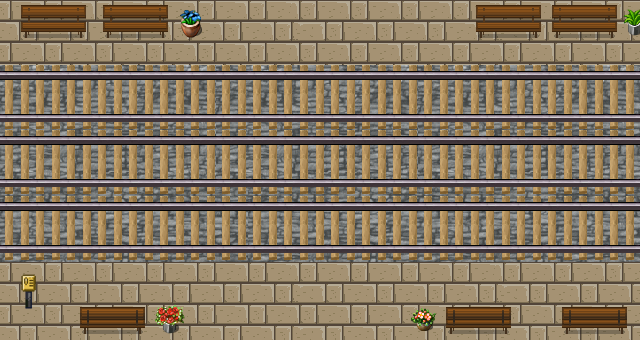
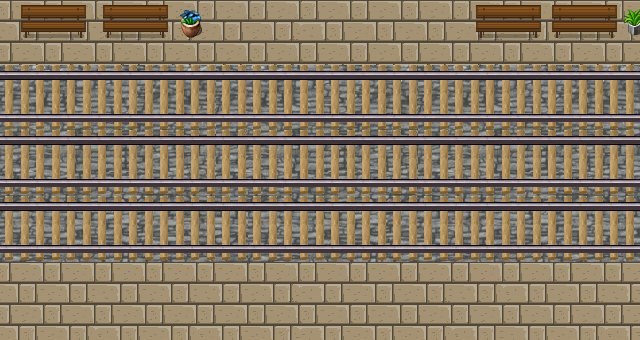
Oh yeah

Changed region(s): [[0.0, 0.7647, 0.5, 1.0], [0.5, 0.7647, 1.0, 1.0], [0.625, 0.7647, 0.6562, 0.8235]]

diff --git a/js/trainstate.js b/js/trainstate.js
@@ -57,6 +57,17 @@ var trainState = {
         train.body.setSize(370, 48);
 	},
 
+    fixSpriteFactory : function(x, y, imgId, wHitBox /* optional */, hHitBox /* optional */) {
+        var decoration = this.mainGroup.create(x, y, imgId);
+        decoration.anchor = {x : 0, y : 1};
+        game.physics.arcade.enable(decoration);
+        decoration.body.immovable = true;
+        if (wHitBox != null && hHitBox != null) {
+            decoration.body.setSize(wHitBox, hHitBox);
+        }
+        return decoration;
+    },
+
 	// phaser API implementation
 
 	create : function() {
@@ -71,6 +82,14 @@ var trainState = {
 
 		// main group (contains all objects that are 'z'-ordered)
 		this.mainGroup = game.add.group();
+        
+        // post (for the tickets)
+        this.post = this.fixSpriteFactory(24, 450, 'c01_post', 15, 17);
+
+        // benches (for beautifulity)
+        this.bench1 = this.fixSpriteFactory(120, 464, 'c01_bench', 65, 15);
+        this.bench2 = this.fixSpriteFactory(450, 464, 'c01_bench', 65, 15);
+        this.bench3 = this.fixSpriteFactory(550, 464, 'c01_bench', 65, 15);
 		
 		// player physics & sprite
 		this.player = this.mainGroup.create((GAME_WIDTH - 48) / 2, GAME_HEIGHT, 'player');
@@ -81,12 +100,9 @@ var trainState = {
         this.player.body.setSize(48, 32); // player hitbox
 
 		// tickets physics & sprite
-		this.tickets = this.mainGroup.create(514, 476, 'c01_tickets');
+        this.tickets = this.fixSpriteFactory(514, 476, 'c01_tickets');
 		this.tickets.animations.add('rotate', [0, 1, 2, 3, 2, 1], 10, true);
 		this.tickets.play('rotate');
-        this.tickets.anchor = {x : 0, y : 1};
-		game.physics.arcade.enable(this.tickets);
-        this.tickets.body.immovable = true;
 
 		// train killer sprite (offscreen)
 		// when a train hits this sprite, it is killed (= it is out of the screen)

diff --git a/js/loadstate.js b/js/loadstate.js
@@ -7,6 +7,8 @@ var loadState = {
 		// Niveau 1 : la gare
 		game.load.image('c01_background_part1', 'img/c01_background_part1.png');
 		game.load.image('c01_background_part2', 'img/c01_background_part2.png');
+        game.load.image('c01_bench', 'img/c01_bench.png');
+        game.load.image('c01_post', 'img/c01_post.png');
 		game.load.spritesheet('c01_train', 'img/c01_train.png', 370, 124, 6);
 		game.load.spritesheet('c01_tickets', 'img/c01_tickets.png', 45, 35);
 	},
